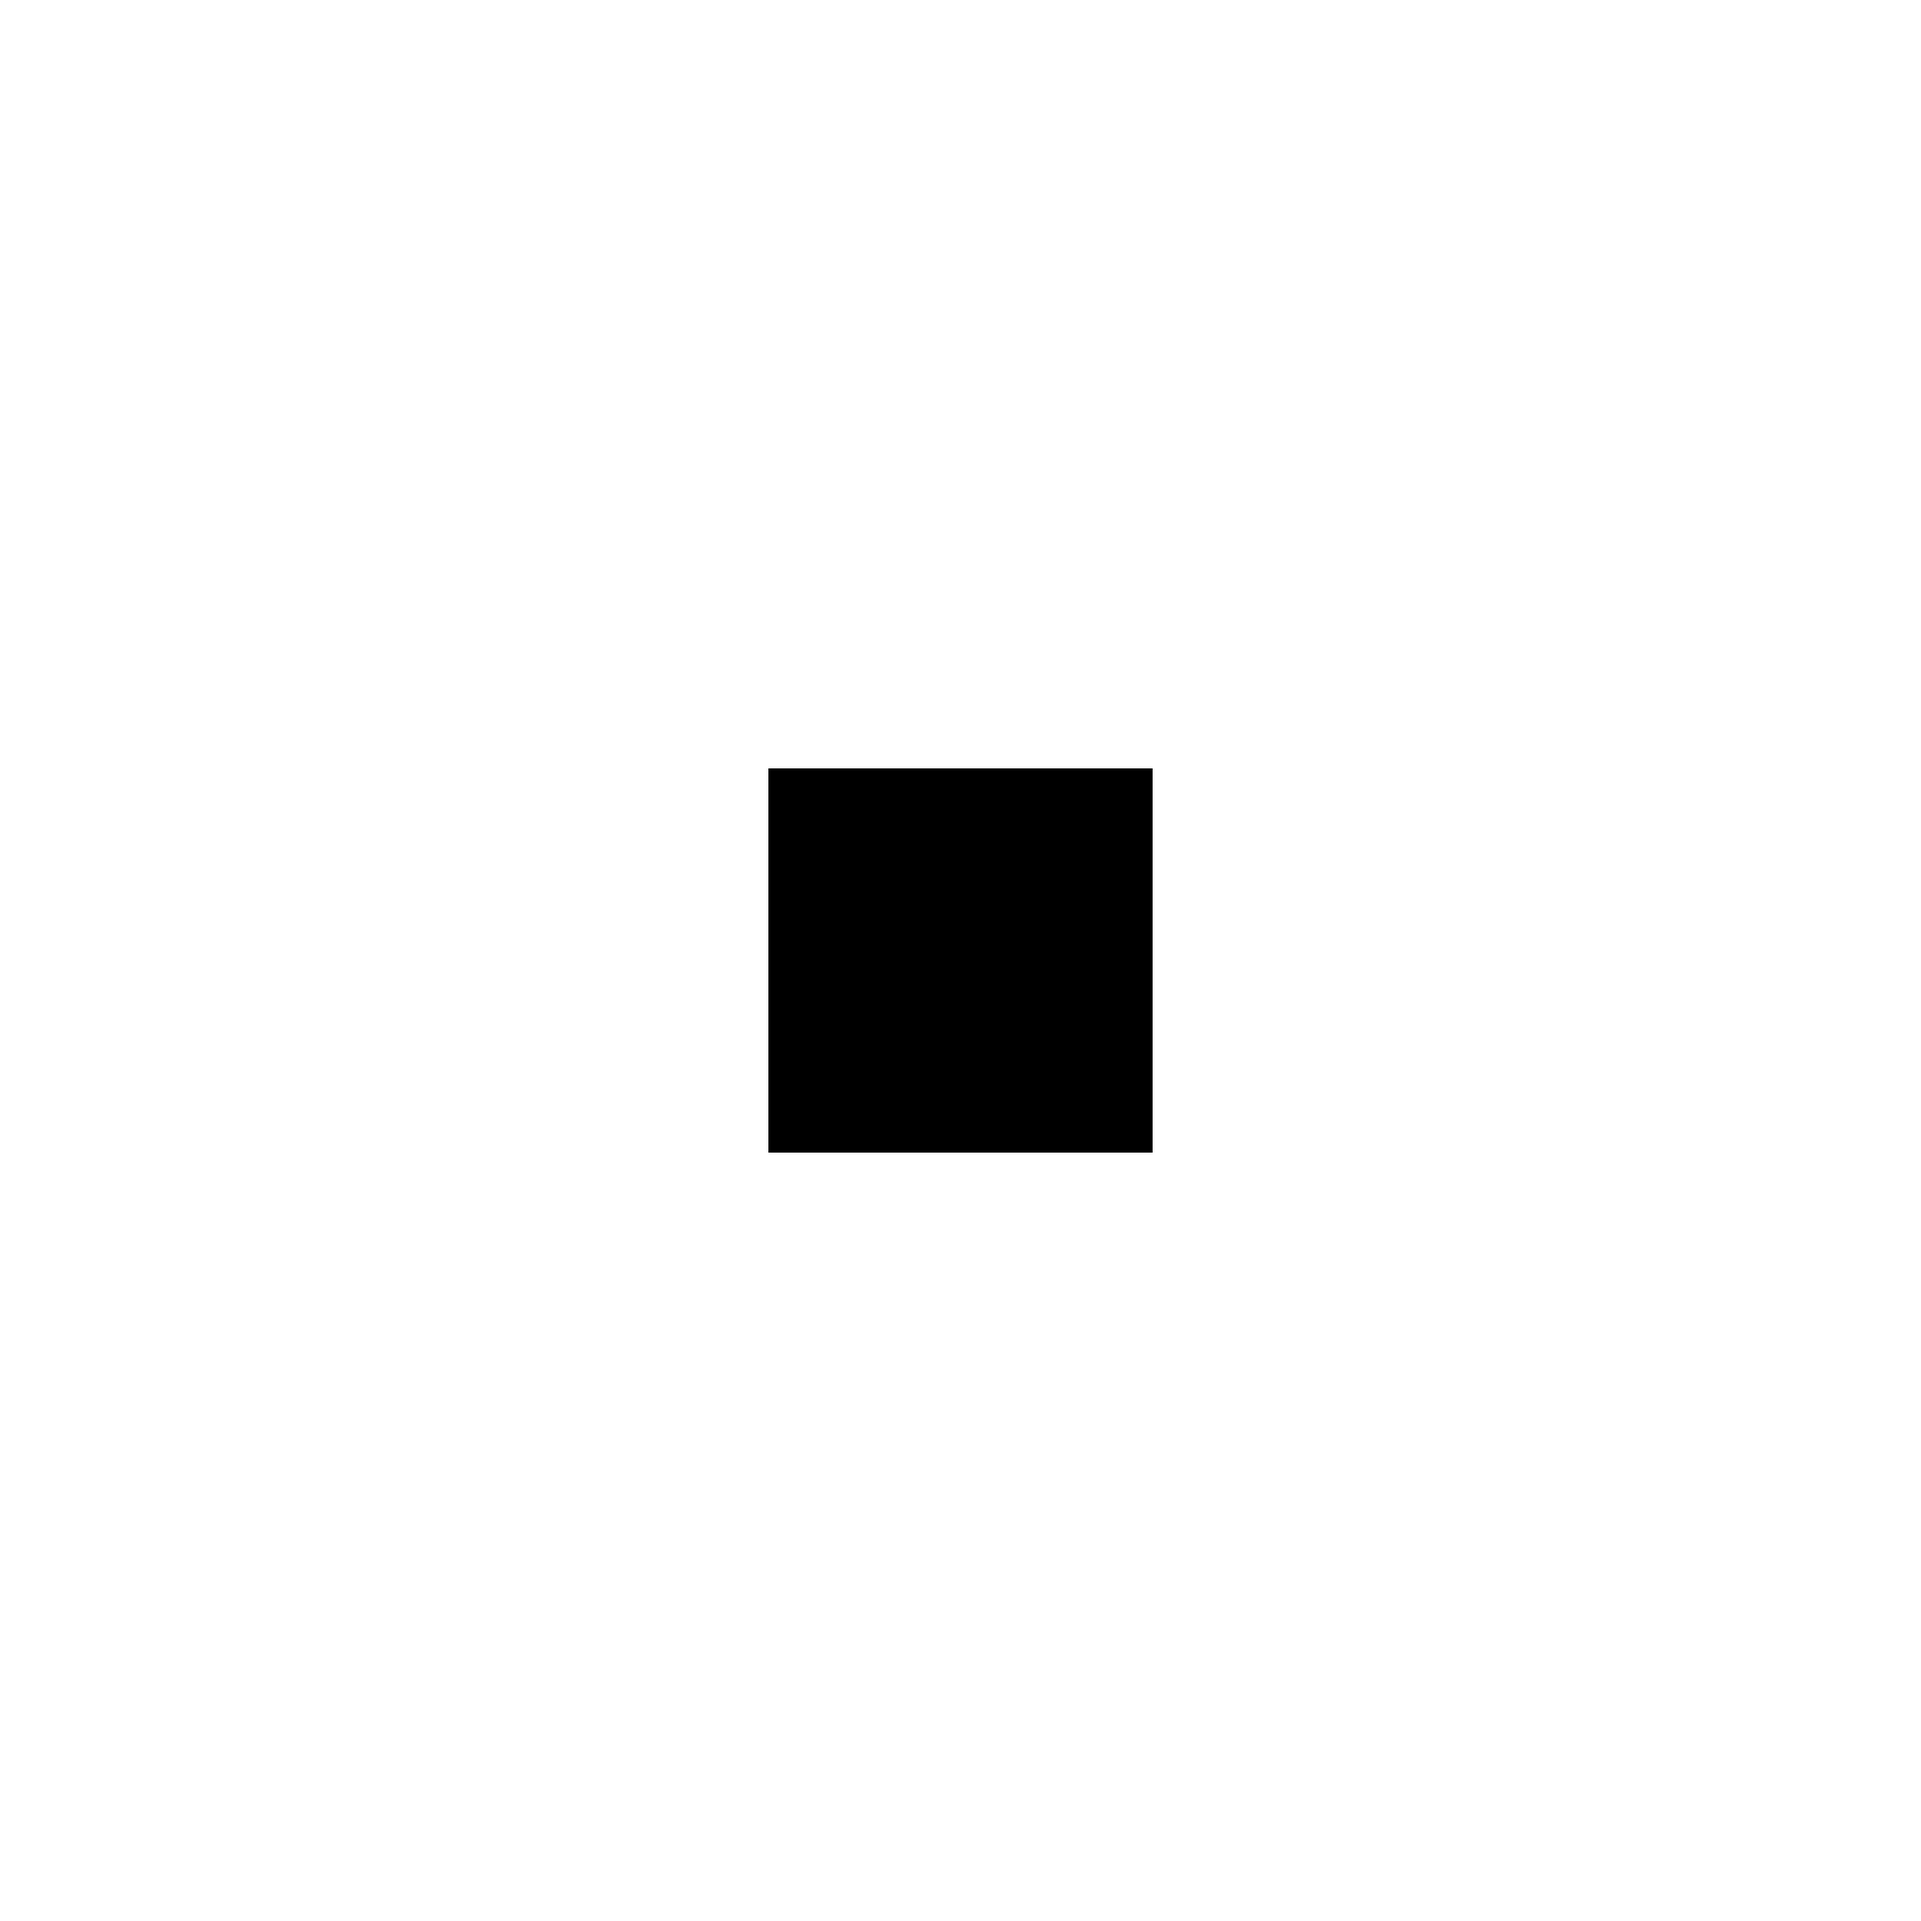
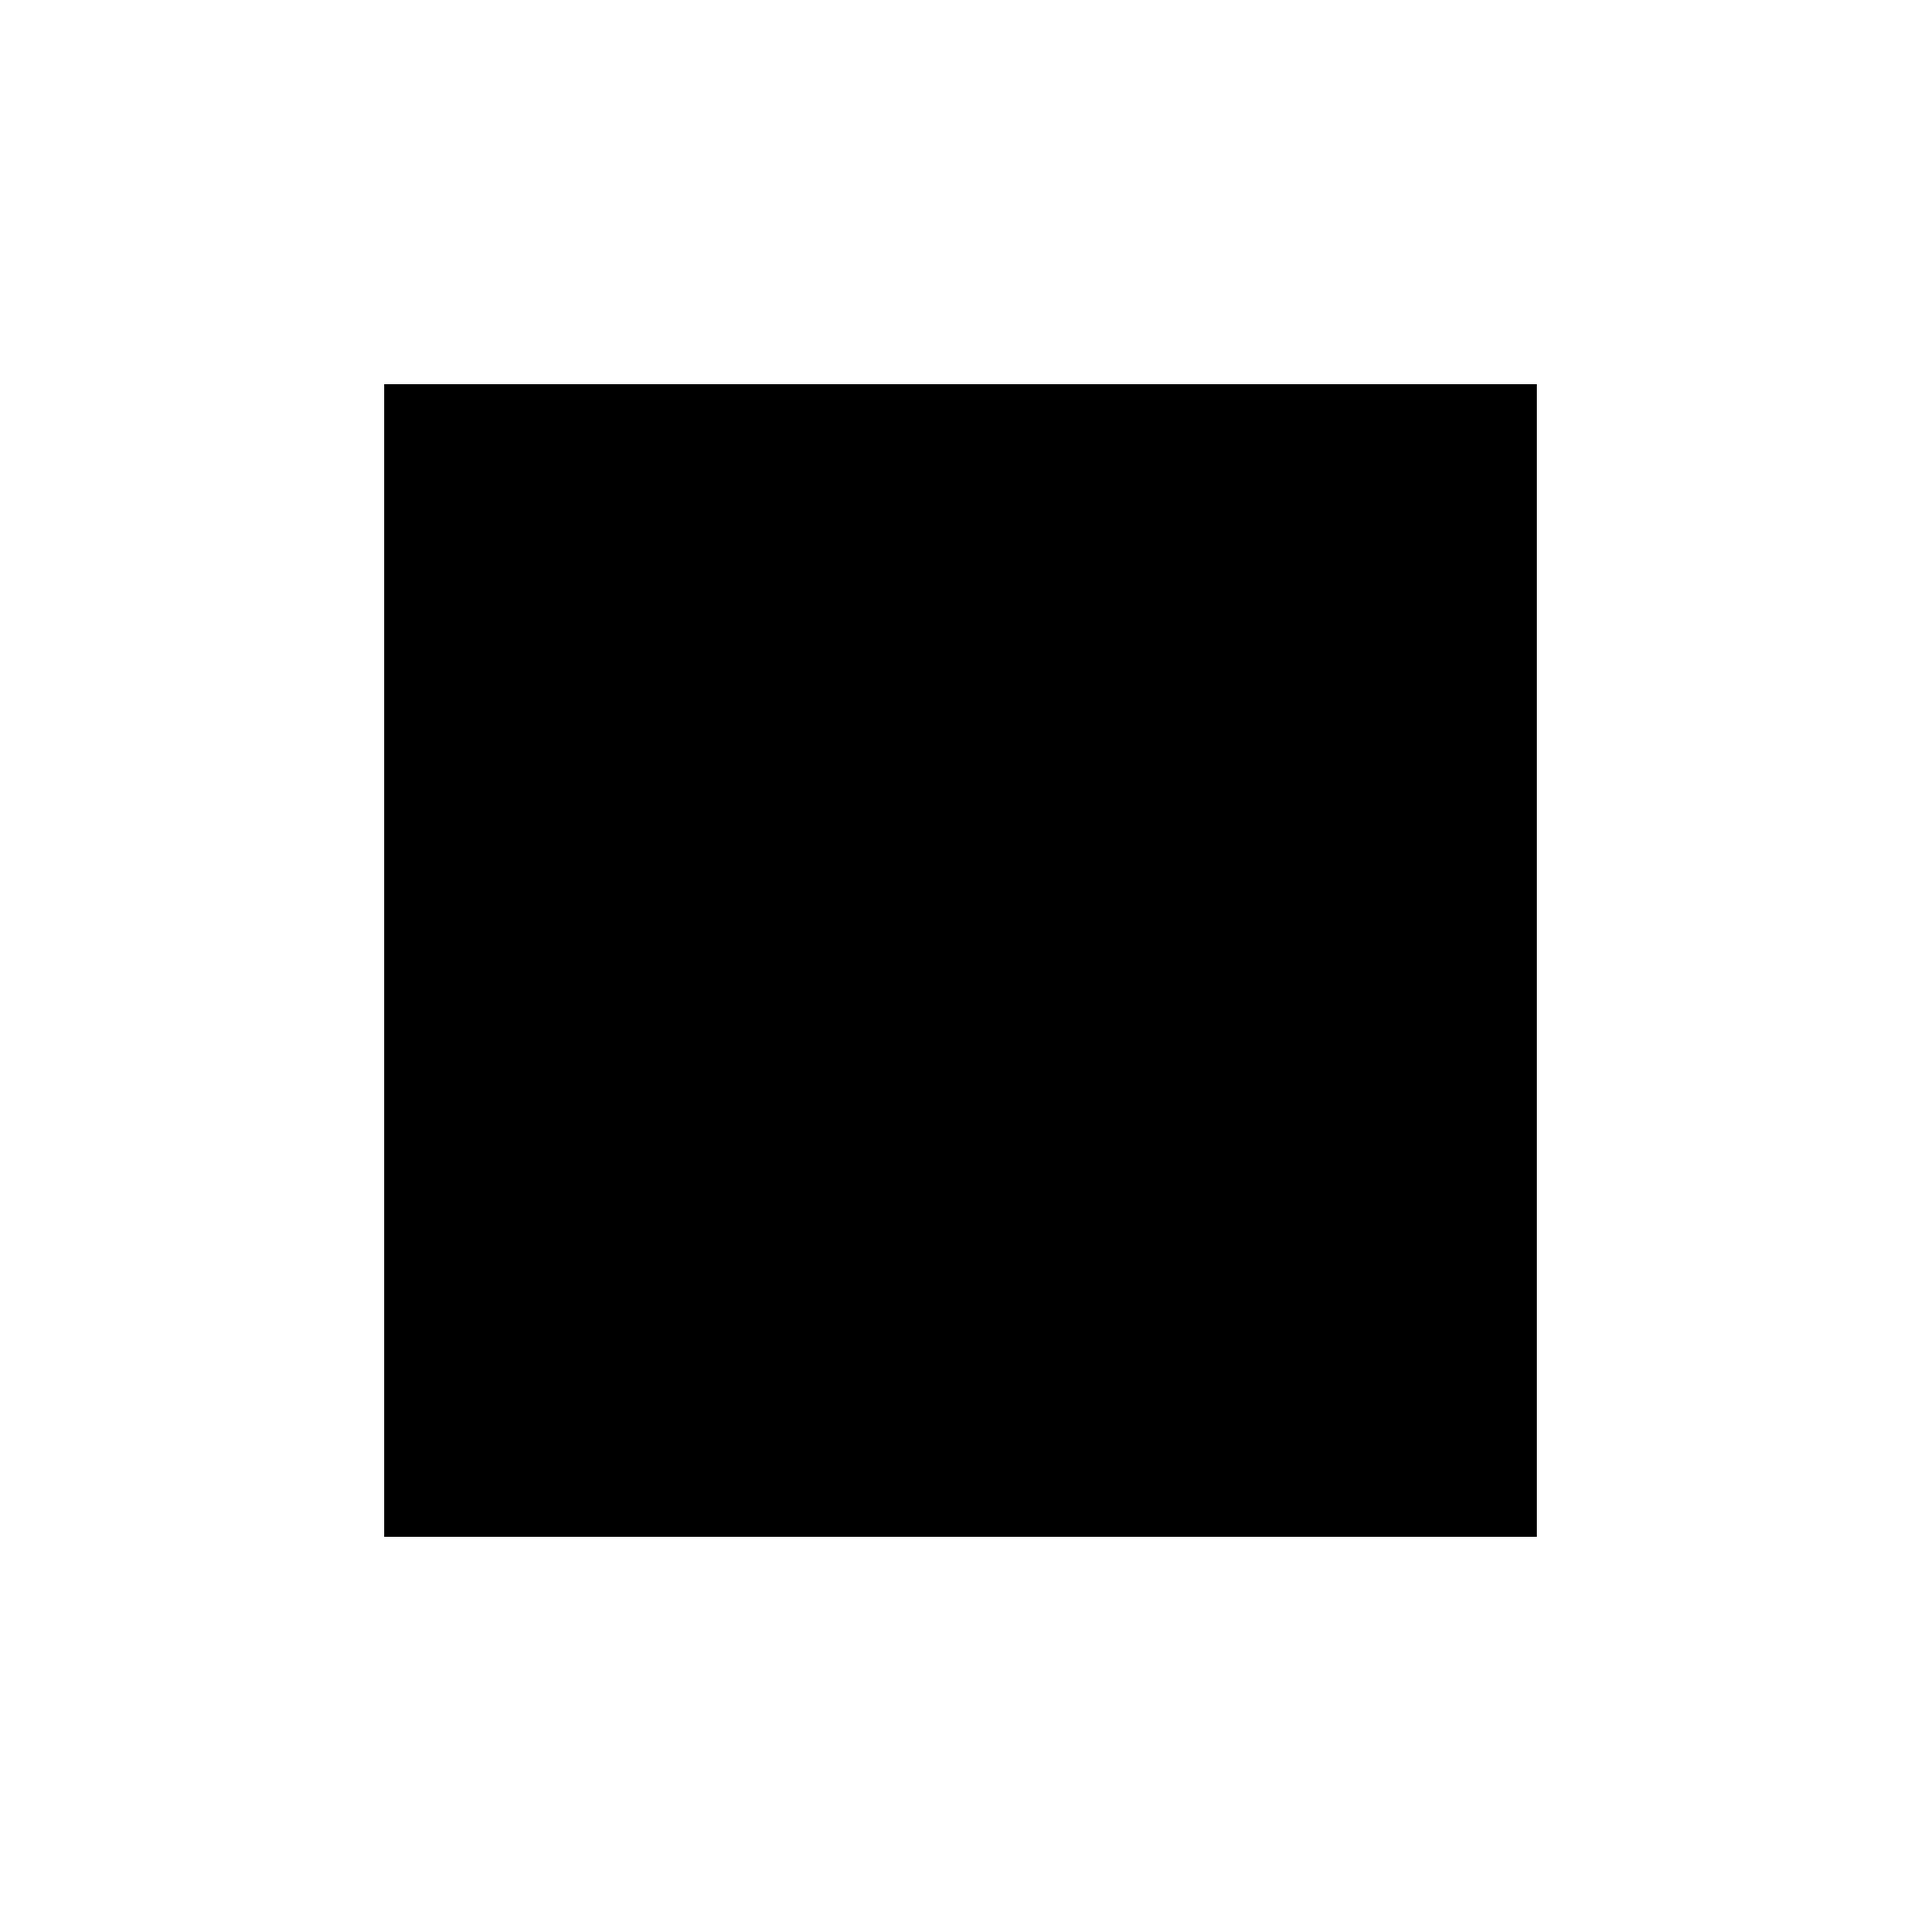
Make scale factor customizable

diff --git a/ImageGenerator.py b/ImageGenerator.py
@@ -6,9 +6,6 @@ import json
 from os import listdir, path
 from PIL import Image
 
-# Enlarge scale factor
-SCALE_FACTOR = 4
-
 CONFIG_FILE_NAME = 'config.json'
 
 global_file_info_list = []
@@ -17,6 +14,7 @@ class Configuration:
     background_file_path = ''
     input_folder_path = ''
     output_folder_path = ''
+    scale_factor = ''
 
 # Read configurations from config file
 def get_configurations():
@@ -37,6 +35,7 @@ def get_configurations():
         Configuration.background_file_path = tmp_config_dict['Background file path']
         Configuration.input_folder_path = tmp_config_dict['Input folder path']
         Configuration.output_folder_path = tmp_config_dict['Output folder path']
+        Configuration.scale_factor = int(tmp_config_dict['Scale factor'])
 
 # Read files from input folder
 def read_input_images():
@@ -58,16 +57,16 @@ def read_input_images():
 # Generate images
 def generate_images():
     for tmp_file_info_list in global_file_info_list:
-        # Open background
+        # Open background image
         tmp_background = Image.open(Configuration.background_file_path)
 
         # Open input image
         tmp_input_image = Image.open(tmp_file_info_list[1])
 
-        # Enlarge input image to 400%
-        tmp_input_image_resized = tmp_input_image.resize((tmp_input_image.width * SCALE_FACTOR, tmp_input_image.height * SCALE_FACTOR))
+        # Resize input image
+        tmp_input_image_resized = tmp_input_image.resize((tmp_input_image.width * Configuration.scale_factor, tmp_input_image.height * Configuration.scale_factor))
 
-        # Put input image at the center of background
+        # Put input image at the center of background image
         tmp_background.paste(tmp_input_image_resized, (tmp_background.width // 2 - tmp_input_image_resized.width // 2, tmp_background.height // 2 - tmp_input_image_resized.height // 2))
 
         # Save image with input image name
